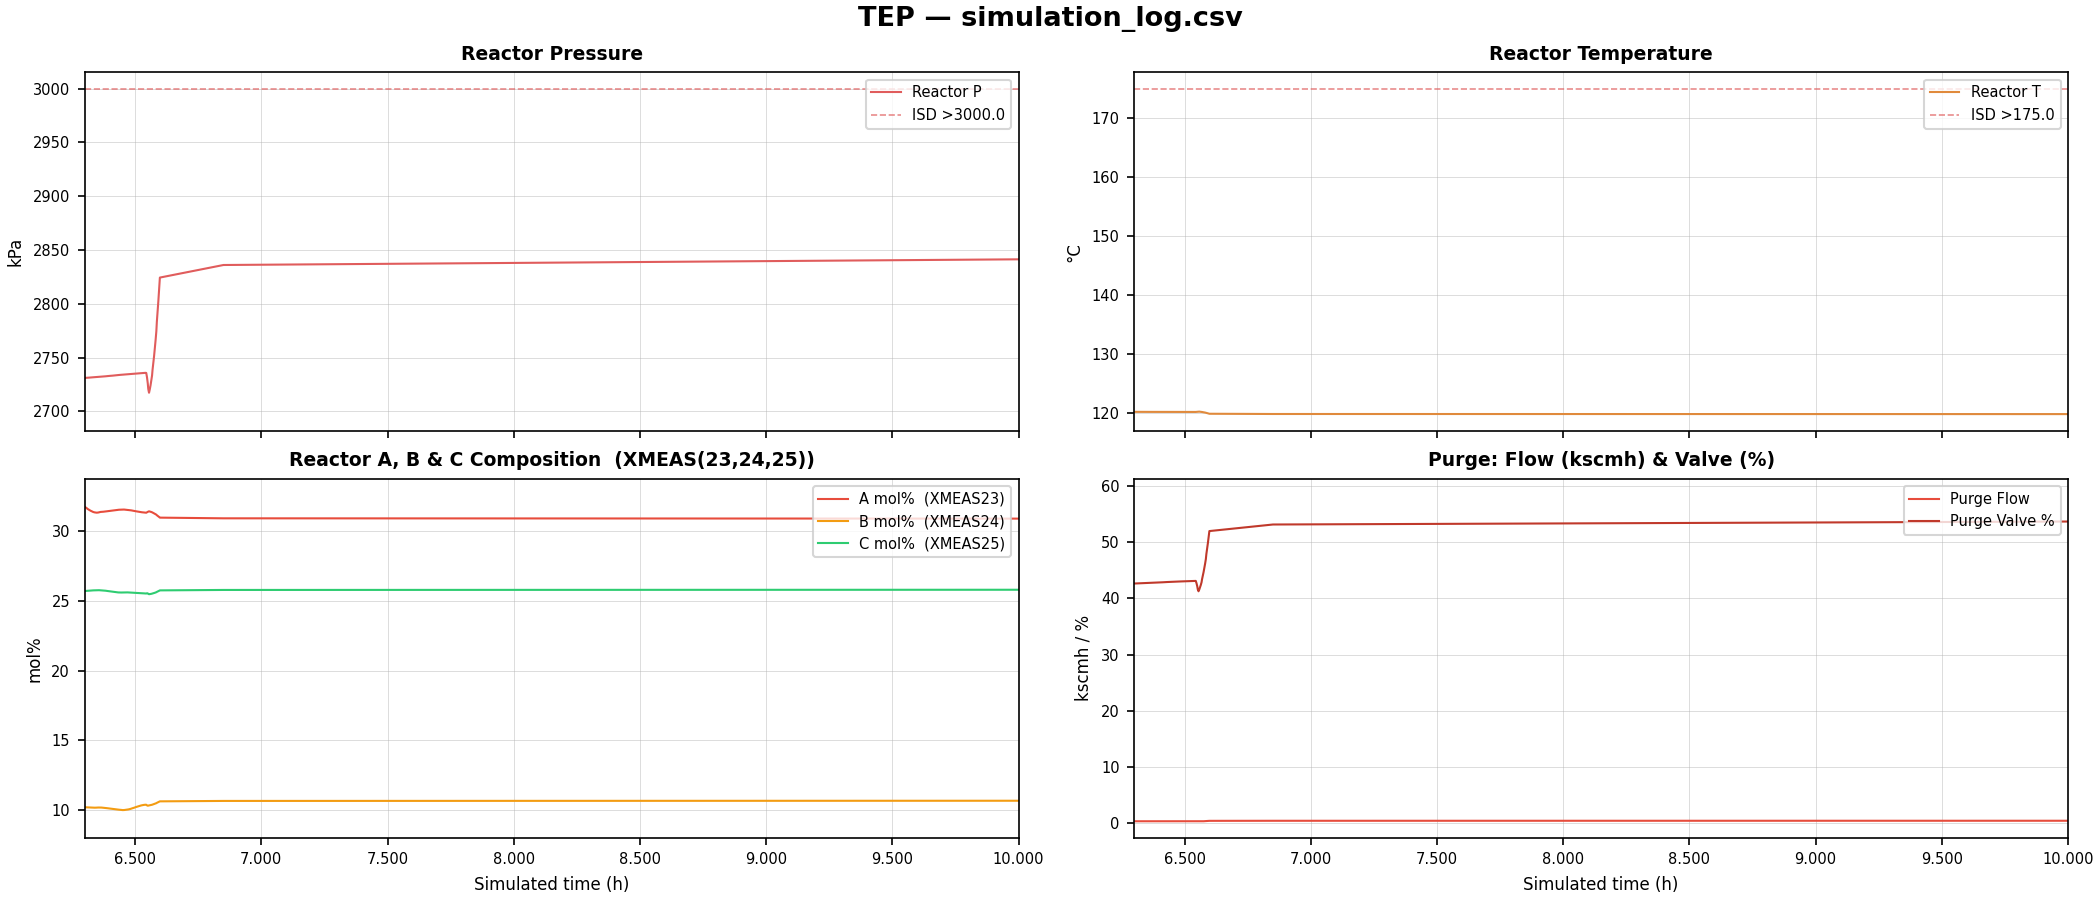
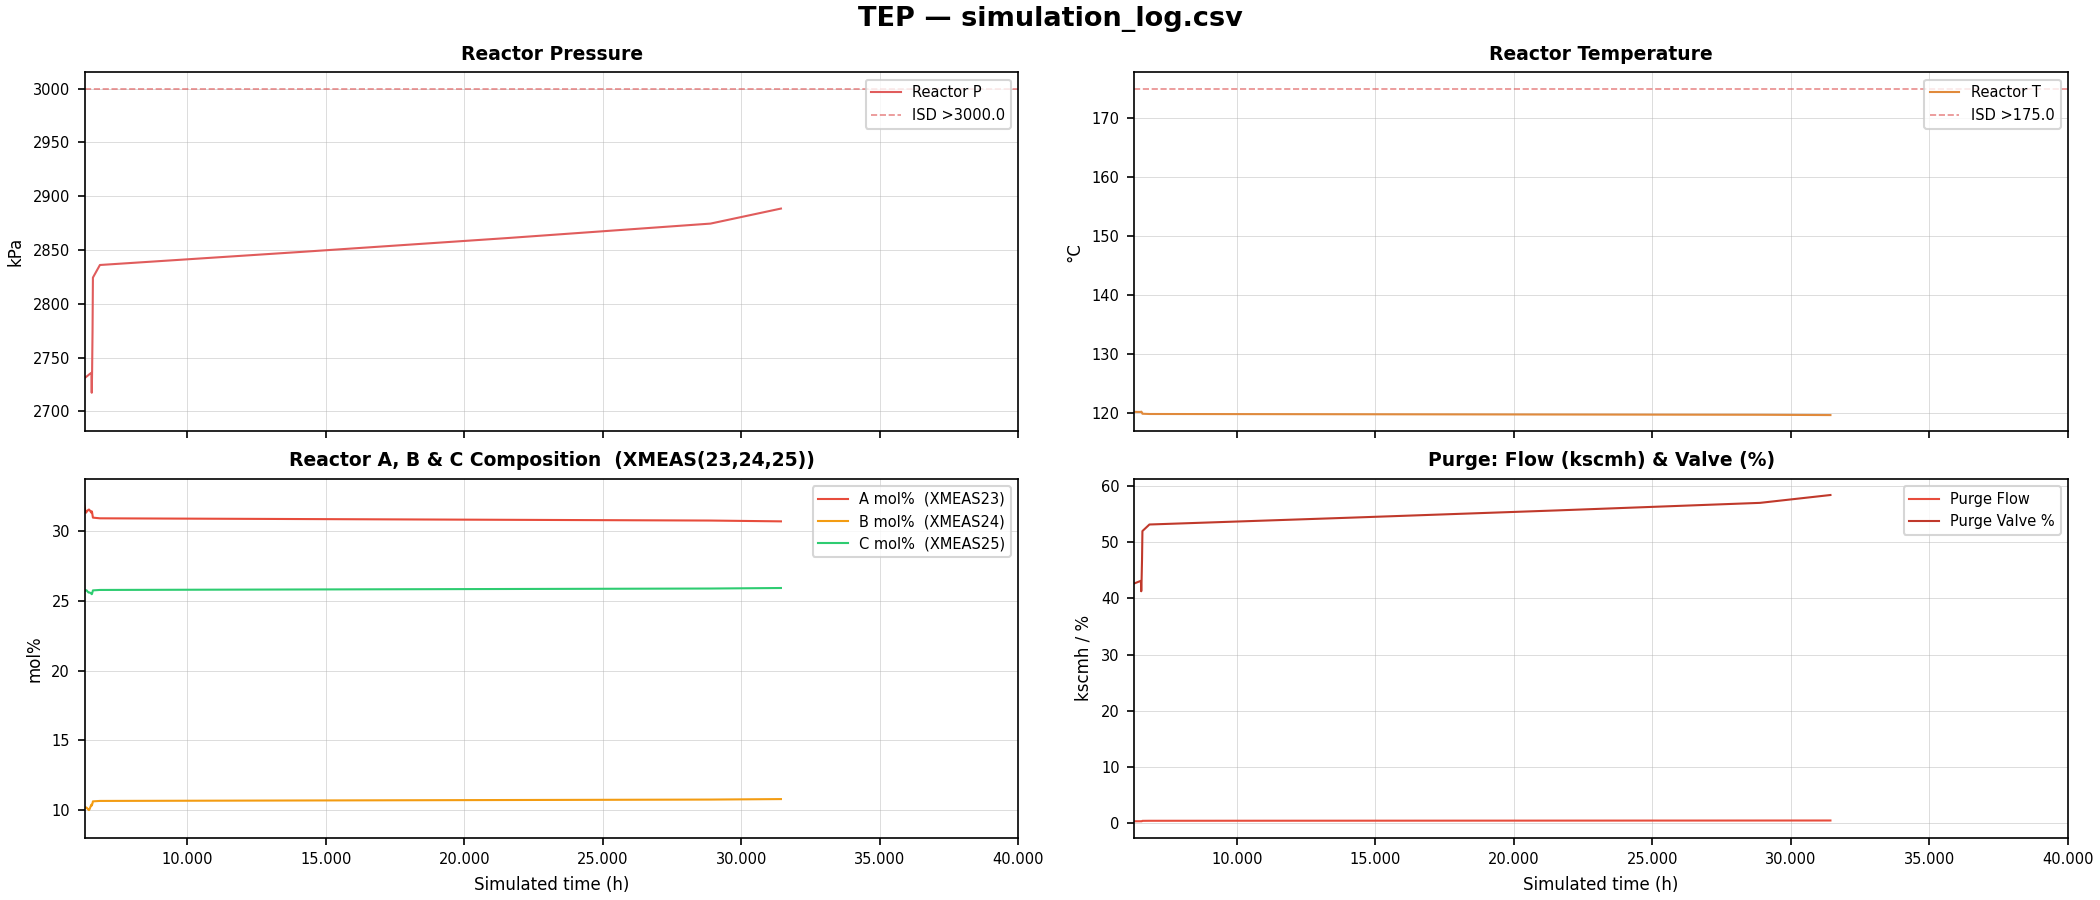
docs: correçaõ da conclusão de exp16

diff --git a/experimentos.md b/experimentos.md
@@ -64,24 +64,26 @@ Debugger config: "IHM: planta local (gRPC + CSV)"
 
 **CSV:** `docs/simulations/simulation_log.csv` | **Plot:** `docs/simulations/plots/simulation_log.png`
 
-| Variável           | Baseline | Observado após IDV(2)         | Hipótese |
-| ------------------ | -------- | ----------------------------- | -------- |
-| XMEAS(24) B reator | ~10 mol% | ↑ ~11 mol% — novo SS estável  | ✓ confirmada |
-| XMEAS(7) Reactor P | ~2727 kPa| ↑ ~2840 kPa — novo patamar    | ✓ parcial (SS atingido, não colapso) |
-| XMEAS(9) Reactor T | ~120 °C  | flat — sem variação           | ✓ confirmada |
-| XMV(6) Purge valve | ~42 %    | ↑ ~53 % — abre em degrau      | ✓ confirmada |
-| XMEAS(23) A mol%   | ~31 mol% | levemente ↓ (diluição por B)  | não previsto |
-| XMEAS(25) C mol%   | ~26 mol% | levemente ↓ (diluição por B)  | não previsto |
+| Variável           | Baseline  | Observado após IDV(2)                         | Hipótese |
+| ------------------ | --------- | --------------------------------------------- | -------- |
+| XMEAS(24) B reator | ~10 mol%  | ↑ ~11 mol% — sobe e continua crescendo        | ✗ hipótese previa SS estável |
+| XMEAS(7) Reactor P | ~2727 kPa | ↑ ~2840 kPa inicial, depois deriva até ISD    | ✗ hipótese previa SS estável |
+| XMEAS(9) Reactor T | ~120 °C   | flat — sem variação                           | ✓ confirmada |
+| XMV(6) Purge valve | ~42 %     | ↑ ~53% inicial, continua abrindo até ~67%+    | ✓ abre, mas insuficiente |
+| XMEAS(23) A mol%   | ~31 mol%  | levemente ↓ (diluição por B)                  | não previsto |
+| XMEAS(25) C mol%   | ~26 mol%  | levemente ↓ (diluição por B)                  | não previsto |
 
-O degrau composicional de B é visível em t ≈ 6.5 h simuladas. A pressão sobe de ~2727 para ~2840 kPa num degrau e se estabiliza no novo patamar. XMV(6) abre de 42% para 53% em resposta. Temperatura flat confirma que B é inerte. O experimento foi acelerado para 100× a partir de ~t=8h pois a planta parecia instável mas evoluía lentamente — o novo SS se confirmou estável até t=31.4h.
+O degrau composicional de B é visível em t ≈ 6.5 h simuladas. A pressão sobe de ~2727 para ~2840 kPa num degrau inicial que *parecia* estável na janela curta (t < 10h), mas o plot completo (até t = 31.4h) revela uma deriva monotônica até quase 3000 kPa. XMV(6) segue abrindo ao longo de todo o experimento, nunca conseguindo compensar a entrada de B. O experimento foi acelerado para 100% de velocidade a partir de ~t=8h; a planta colapsou por ISD de pressão.
 
 ### Conclusão
 
-**IDV(2) estabelece um novo estado estacionário — a planta não colapsa.** O mecanismo é direto: mais B inerte → inventário gasoso aumenta → pressão sobe → controlador P abre XMV(6) → taxa de purga de B aumenta até equilibrar a entrada → novo SS. A hipótese foi confirmada na estrutura qualitativa.
+**Hipótese refutada: IDV(2) também colapsa a planta, apenas mais lentamente que IDV(1).** O mecanismo não atingiu o equilíbrio previsto. A taxa de entrada de B supera a capacidade de remoção pela purga mesmo com o controlador abrindo XMV(6) continuamente — a purga não consegue compensar sozinha.
 
-**Resultado diagnóstico importante:** o controlador P de pressão via purge *responde corretamente* ao distúrbio mas *não restaura* a pressão ao baseline — apenas a segura num patamar ~140 kPa acima. Isso é esperado: um controlador P sem integrador tem erro estacionário permanente frente a distúrbios de carga. Para rejeitar IDV(2) e retornar ao baseline seria necessário controle PI de pressão ou uma ação supervisória que ajuste o setpoint de purga.
+**Dois regimes distintos observados:**
+1. **Transiente rápido (t < 10h):** pressão sobe em degrau ~110 kPa e *parece* estabilizar; XMV(6) abre de 42→53%. Este regime induziu a hipótese de novo SS estável.
+2. **Deriva lenta (t > 10h):** pressão continua subindo monotonicamente a ~4–5 kPa/h; XMV(6) segue abrindo. O controlador P não tem autoridade suficiente — sem integrador, o erro estacionário cresce com a carga de B até o ISD.
 
-**Contraste com Exp 15:** IDV(1) colapsa a planta em 2.5h; IDV(2) a eleva a um novo SS estável. A diferença é reatividade: IDV(1) muda a cinética, IDV(2) apenas o inventário de inerte. Para o TCC, IDV(2) é o caso mais limpo de *distúrbio mensurável → resposta da planta → atuação do controlador → falha de estabilização completa* — justifica a camada supervisória sem ambiguidade de modelagem térmica.
+**Contraste com Exp 15:** IDV(1) colapsa em ~2.5h por mecanismo cinético (menos A → menos consumo de gás); IDV(2) colapsa em dezenas de horas por acúmulo lento de inerte. O ritmo é diferente, o destino é o mesmo. Para o TCC, IDV(2) é o caso de *distúrbio mensurável → resposta insuficiente do controlador → colapso lento* — a supervisão precisa detectar a deriva de pressão antes que o erro acumulado se torne irrecuperável.
 
 ---
 